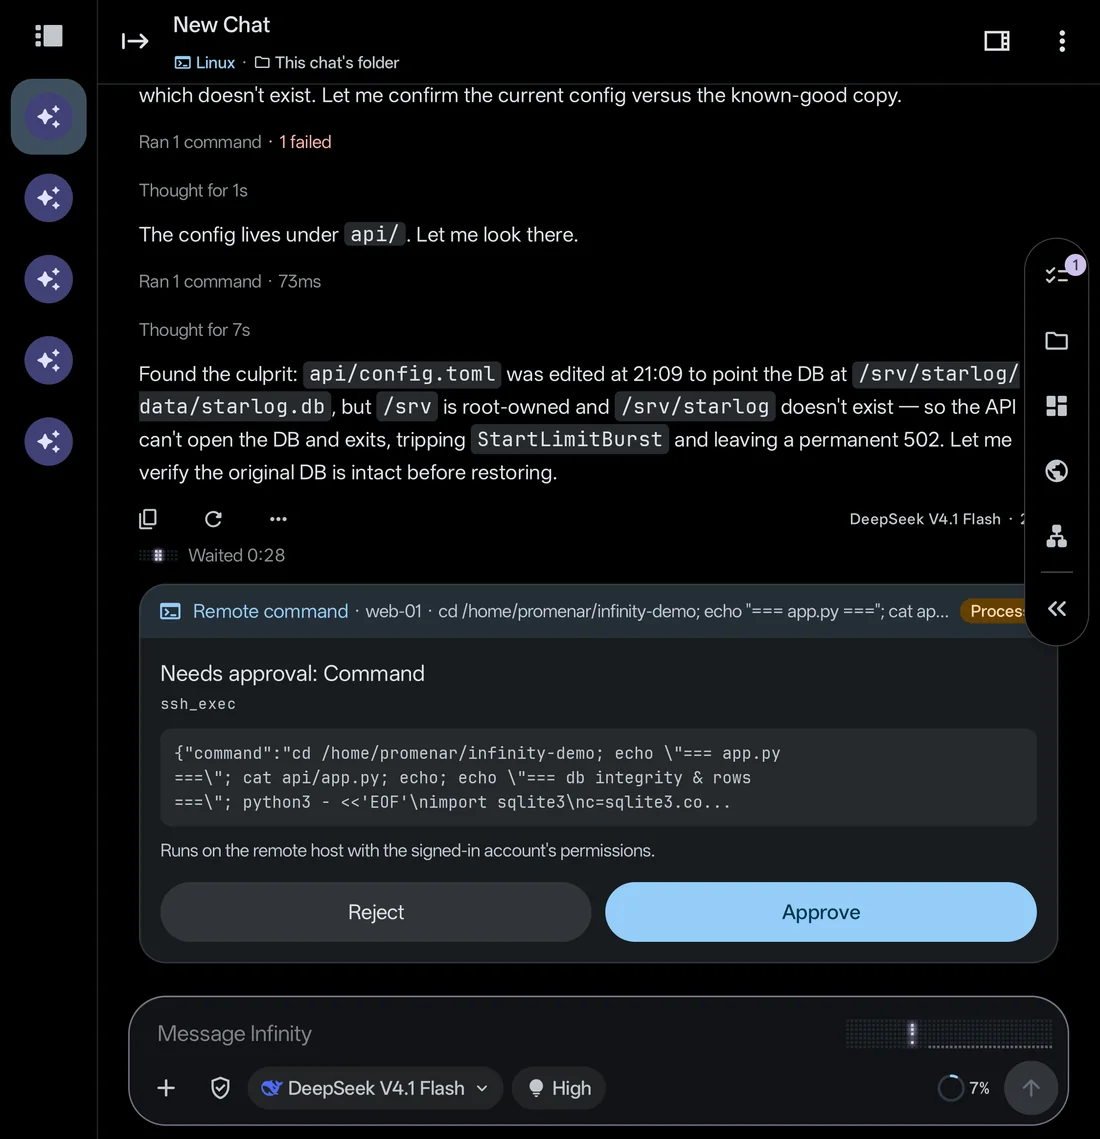
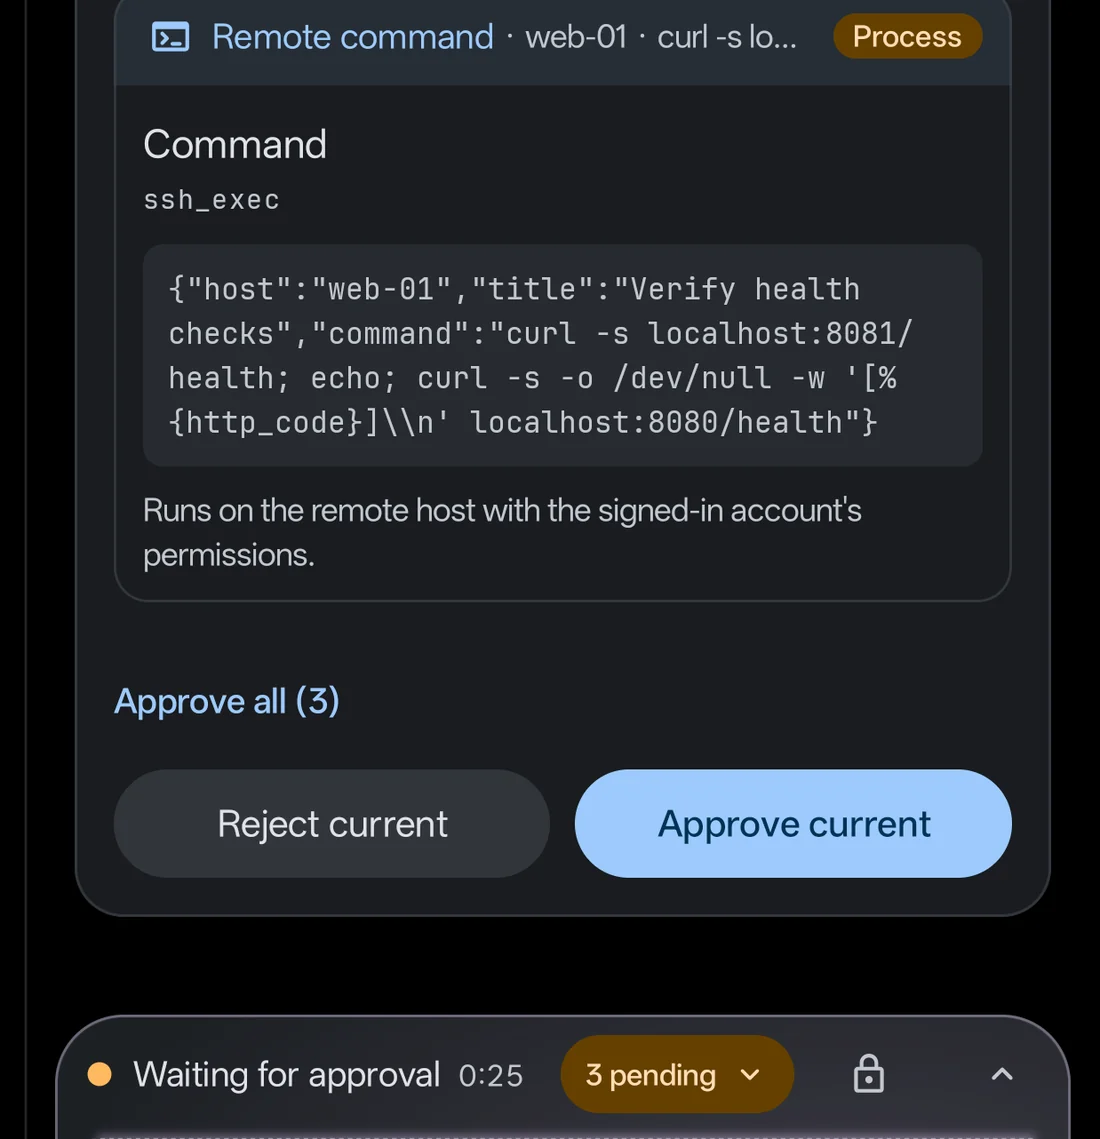
README 顶部加入中英文宣传片，截图换成视觉实验室静帧
- 中英文 README 在徽章下方内嵌 88 秒宣传片（GitHub user-attachments）
- 12 张截图按中英界面分别取自视觉实验室录制模式静帧，运维截图不再露出本机路径
- 更新后台任务、运维两组配图的说明文字与图注

diff --git a/README.md b/README.md
@@ -24,8 +24,10 @@
   <img src="https://img.shields.io/badge/version-0.11.1--beta-6366F1.svg" alt="Version 0.11.1-beta">
 </p>
 
+https://github.com/user-attachments/assets/97ec8287-b32f-452f-8bcd-1bffa4f789e6
+
 <p align="center">
-  <img src="assets/screenshots/en/hero.webp" alt="Unfolded: an agent's 502 fix report beside a live SSH terminal on the server. Folded: the same chat continues on the cover screen" width="860">
+  <img src="assets/screenshots/en/hero.webp" alt="Unfolded: the chat beside the Git panel listing commits. Folded: the 502 fix report continues on the cover screen" width="860">
 </p>
 
 ## A real Linux in your pocket
@@ -46,7 +48,7 @@ Ask for a change and the agent works the way you would at a desk: it writes a pl
 <table>
   <tr>
     <td width="50%"><img src="assets/screenshots/en/ade-subagents.webp" alt="Two sub-agents surveying code and test gaps in parallel while the main chat waits"></td>
-    <td width="50%"><img src="assets/screenshots/en/ade-background.webp" alt="Approval card for a full test suite that runs in the background for up to 40 minutes"></td>
+    <td width="50%"><img src="assets/screenshots/en/ade-background.webp" alt="All 21 tests pass and the 4-million-line full suite moves to a background job while the chat keeps going"></td>
   </tr>
   <tr>
     <td align="center">Sub-agents survey the code in parallel</td>
@@ -68,12 +70,12 @@ Save a host once and let the agent investigate: it reads unit status and logs, f
 
 <table>
   <tr>
-    <td width="50%"><img src="assets/screenshots/en/ops-diagnosis.webp" alt="The agent explains a 502: the API config points at a database path that does not exist; the next remote command waits for approval"></td>
-    <td width="50%"><img src="assets/screenshots/en/ops-detail.webp" alt="The fix report with a verification table: both services active, health checks return 200"></td>
+    <td width="50%"><img src="assets/screenshots/en/ops-diagnosis.webp" alt="Remote commands on web-01 wait in line: approve or reject each one, three pending"></td>
+    <td width="50%"><img src="assets/screenshots/en/ops-detail.webp" alt="The fix report: config.toml pointed the database at a directory that was never created; the path is restored and the API restarted"></td>
   </tr>
   <tr>
-    <td align="center">Root cause first, each command approved</td>
-    <td align="center">Fixed and verified end to end</td>
+    <td align="center">Every remote command waits for you</td>
+    <td align="center">Root cause, fix and verification in one report</td>
   </tr>
 </table>
 

diff --git a/README.zh-CN.md b/README.zh-CN.md
@@ -24,6 +24,8 @@
   <img src="https://img.shields.io/badge/version-0.11.1--beta-6366F1.svg" alt="版本 0.11.1-beta">
 </p>
 
+https://github.com/user-attachments/assets/c48800d9-34a5-4397-97f3-04e7ac21449d
+
 <p align="center">
   <img src="assets/screenshots/zh/hero.webp" alt="展开：会话旁边的 Git 面板列出提交记录；合上：外屏继续查看 502 排障报告" width="860">
 </p>
@@ -46,7 +48,7 @@
 <table>
   <tr>
     <td width="50%"><img src="assets/screenshots/zh/ade-subagents.webp" alt="两个子代理并行梳理代码与测试缺口，主会话等待汇总"></td>
-    <td width="50%"><img src="assets/screenshots/zh/ade-background.webp" alt="完整测试在后台运行，同时分支会话也在生成"></td>
+    <td width="50%"><img src="assets/screenshots/zh/ade-background.webp" alt="21 个测试通过后，400 万行的完整测试套件转入后台任务，对话继续进行"></td>
   </tr>
   <tr>
     <td align="center">子代理并行梳理代码</td>
@@ -68,12 +70,12 @@
 
 <table>
   <tr>
-    <td width="50%"><img src="assets/screenshots/zh/ops-diagnosis.webp" alt="Agent 定位 502 根因：配置把数据库指向不存在的 /srv 目录；修复命令等待批准"></td>
-    <td width="50%"><img src="assets/screenshots/zh/ops-detail.webp" alt="应用内 SSH 终端：systemd 显示两个服务运行中，接口返回 HTTP 200"></td>
+    <td width="50%"><img src="assets/screenshots/zh/ops-diagnosis.webp" alt="web-01 上的远程命令排队等待批准：可逐条批准或拒绝，共 3 项"></td>
+    <td width="50%"><img src="assets/screenshots/zh/ops-detail.webp" alt="修复报告：config.toml 把数据库指向从未创建的目录，已恢复路径并重启 api"></td>
   </tr>
   <tr>
-    <td align="center">先查根因，每条命令由你批准</td>
-    <td align="center">在真实终端里亲自复核</td>
+    <td align="center">每条远程命令由你批准</td>
+    <td align="center">根因、修复与验证写进一份报告</td>
   </tr>
 </table>
 
@@ -83,7 +85,7 @@
 
 <table>
   <tr>
-    <td colspan="3"><img src="assets/screenshots/zh/fold-inspector.webp" alt="展开：会话旁边的 Git 检查器列出提交记录"></td>
+    <td colspan="3"><img src="assets/screenshots/zh/fold-inspector.webp" alt="展开：会话旁边的计划检查器列出已完成步骤、子代理与后台任务"></td>
   </tr>
   <tr>
     <td width="33%"><img src="assets/screenshots/zh/outer-chat.webp" alt="外屏：502 排障报告"></td>

diff --git a/CHANGELOG.md b/CHANGELOG.md
@@ -14,6 +14,10 @@ All notable changes to this project will be documented in this file.
 
 ## [Unreleased]
 
+### 文档
+
+- 中英文 README 顶部加入 88 秒宣传片（GitHub 内嵌播放），截图全部换成视觉实验室的中英文界面静帧；运维截图不再露出本机路径。
+
 ### 修复
 
 - SSH 终端清空缓冲（断开后重连）时把光标移回左上角，新连接的输出不再从旧提示符的位置接着写。
